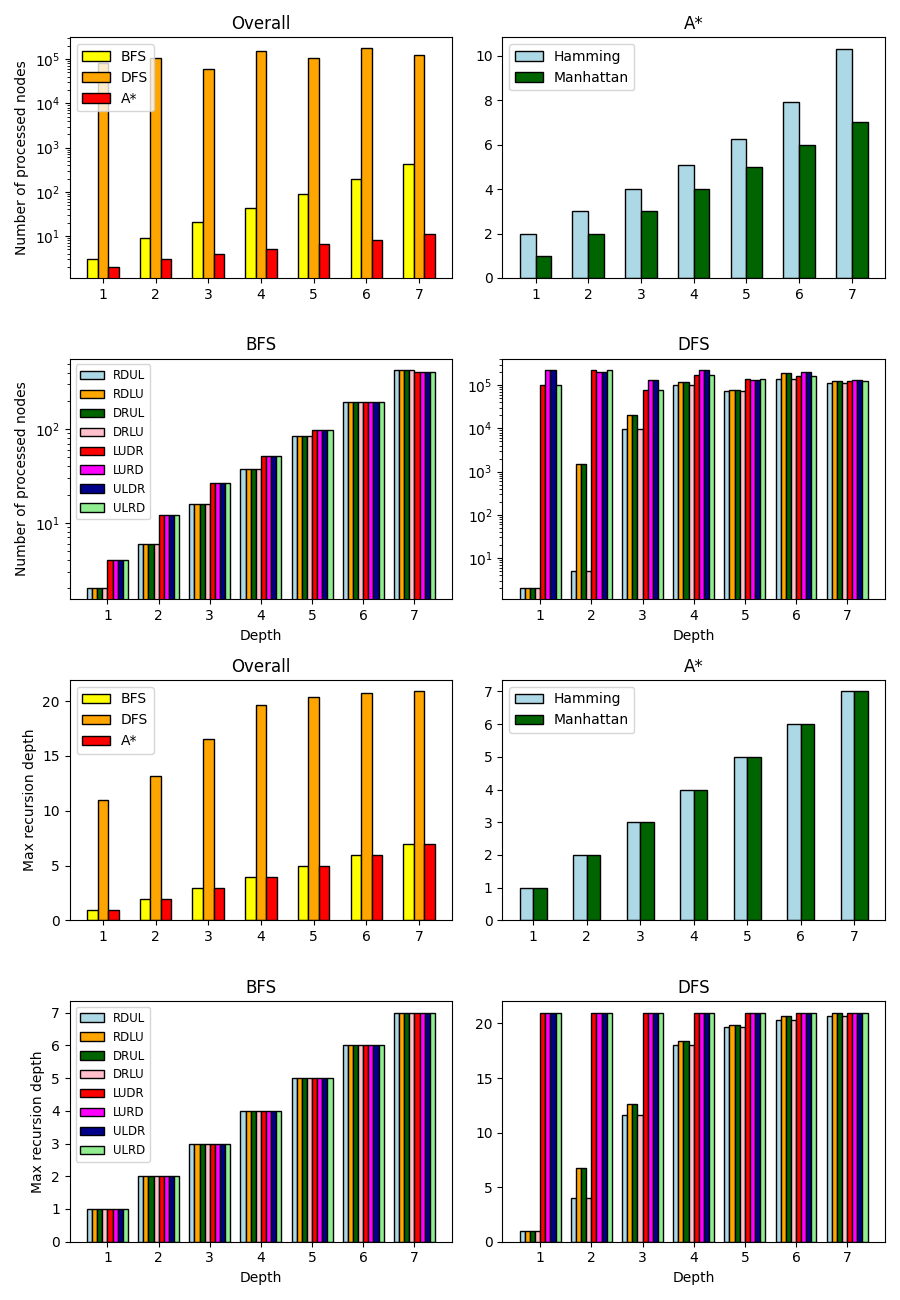
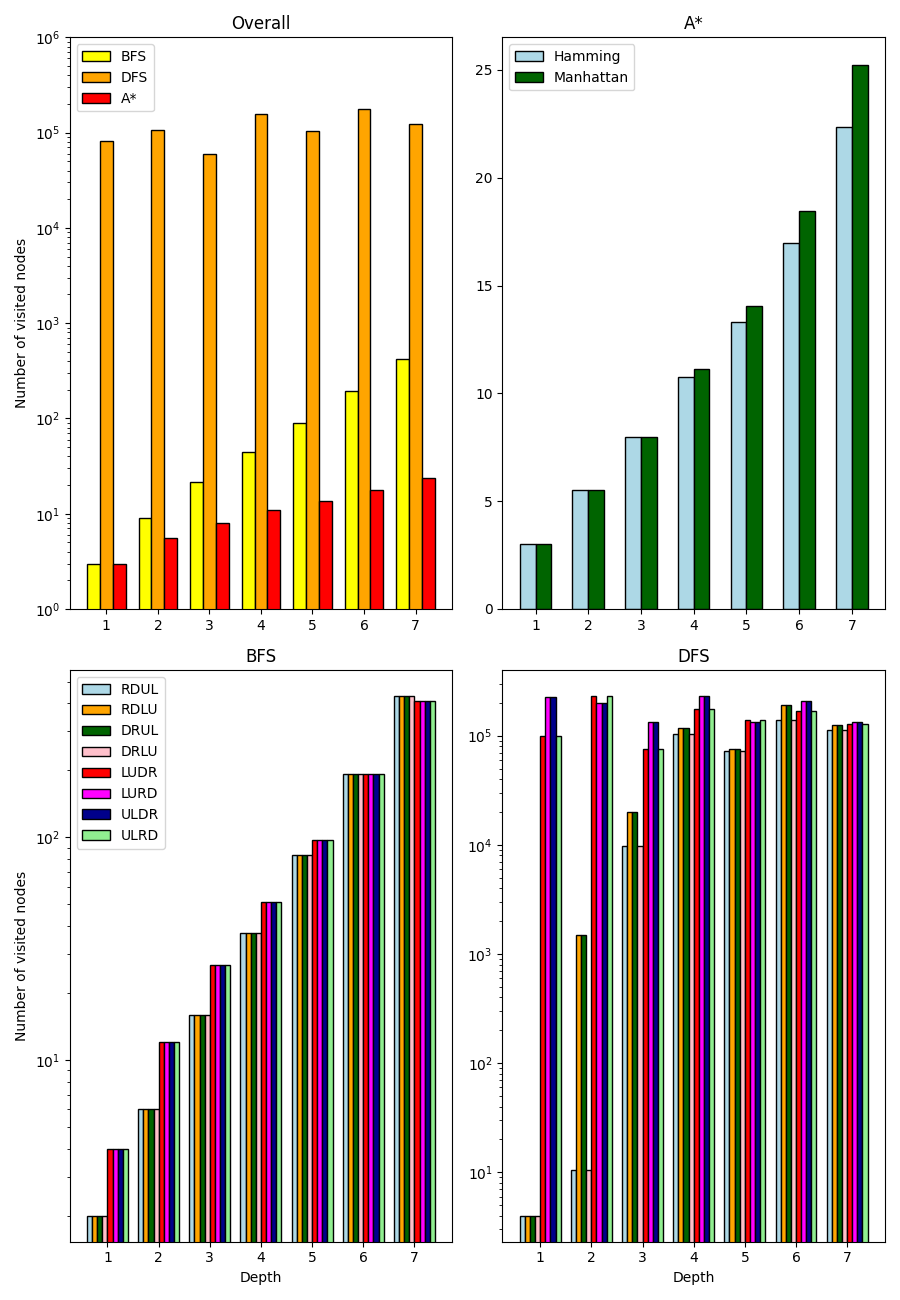
final final

diff --git a/pyton wykresy/main.py b/pyton wykresy/main.py
@@ -39,7 +39,7 @@ def stats(name, *strategy):
 
 names = ['1', '2', '3', '4', '5', '6', '7']
 plt.rcParams["figure.figsize"] = [9, 13]
-fig, ax = plt.subplots(4, 2, tight_layout=True)
+fig, ax = plt.subplots(2, 2, tight_layout=True)
 names_axis = np.arange(len(names))
 
 width = 0.3
@@ -49,14 +49,14 @@ ax[0, 0].bar(names_axis + width, stats('astr')[0], width, color='red', edgecolor
 ax[0, 0].set_ylabel("Avg solution length")
 ax[0, 0].set_xticks(names_axis, names)
 ax[0, 0].set_title("Overall")
-ax[0, 0].legend(["BFS", "DFS", "A*"])
+ax[0, 0].legend(["BFS", "DFS", "A*"], loc="upper left")
 
 ax[0, 1].bar(names_axis - 0.5 * width, stats('astr', 'hamm')[0], width, color='lightblue', edgecolor='black')
 ax[0, 1].bar(names_axis + 0.5 * width, stats('astr', 'manh')[0], width, color='darkgreen' , edgecolor='black')
 ax[0, 1].set_title("A*")
 ax[0, 1].set_xticks(names_axis, names)
 ax[0, 1].set_yticks([1, 2, 3, 4, 5, 6, 7])
-ax[0, 1].legend(["BFS", "DFS", "A*"])
+ax[0, 1].legend(["BFS", "DFS", "A*"], loc="upper left")
 
 width = 0.10
 ax[1, 0].bar(names_axis - 3.5 * width, stats('bfs', 'rdul')[0], width, color='lightblue', edgecolor='black')
@@ -70,7 +70,7 @@ ax[1, 0].bar(names_axis + 3.5 * width, stats('bfs', 'ulrd')[0], width, color='li
 ax[1, 0].set_ylabel("Avg solution length")
 ax[1, 0].set_xticks(names_axis, names)
 ax[1, 0].set_title("BFS")
-ax[1, 0].legend(['RDUL', 'RDLU', 'DRUL', 'DRLU', 'LUDR', 'LURD', 'ULDR', 'ULRD'])
+ax[1, 0].legend(['RDUL', 'RDLU', 'DRUL', 'DRLU', 'LUDR', 'LURD', 'ULDR', 'ULRD'], loc="upper left")
 ax[1, 0].set_xlabel("Depth")
 
 ax[1, 1].bar(names_axis - 3.5 * width, stats('dfs', 'rdul')[0], width, color='lightblue', edgecolor='black')
@@ -84,157 +84,169 @@ ax[1, 1].bar(names_axis + 3.5 * width, stats('dfs', 'ulrd')[0], width, color='li
 ax[1, 1].set_xticks(names_axis, names)
 ax[1, 1].set_title("DFS")
 ax[1, 1].set_xlabel("Depth")
-
-width = 0.3
-ax[2, 0].bar(names_axis - 0.25, stats('bfs')[1], 0.25, color='yellow', log=True, edgecolor='black')
-ax[2, 0].bar(names_axis, stats('dfs')[1], 0.25, color='orange', log=True, edgecolor='black')
-ax[2, 0].bar(names_axis + 0.25, stats('astr')[1], 0.25, color='red', log=True, edgecolor='black')
-ax[2, 0].set_ylabel("Number of visited nodes")
-ax[2, 0].set_xticks(names_axis, names)
-ax[2, 0].set_title("Overall")
-ax[2, 0].legend(['BFS', 'DFS', 'A*'], loc="upper left")
-ax[2, 0].set_yticks([1, 10, 100, 1000, 10000, 100000, 1000000])
-
-ax[2, 1].bar(names_axis - 0.5 * width, stats('astr', 'hamm')[1], width, color='lightblue', edgecolor='black')
-ax[2, 1].bar(names_axis + 0.5 * width, stats('astr', 'manh')[1], width, color='darkgreen', edgecolor='black')
-ax[2, 1].set_title("A*")
-ax[2, 1].set_xticks(names_axis, names)
-ax[2, 1].legend(['Hamming', 'Manhattan'])
-ax[2, 1].set_yticks([0, 5, 10, 15, 20, 25])
-
-width = 0.1
-ax[3, 0].bar(names_axis - 3.5 * width, stats('bfs', 'rdul')[1], 0.1, color='lightblue', log=True, edgecolor='black')
-ax[3, 0].bar(names_axis - 2.5 * width, stats('bfs', 'rdlu')[1], 0.1, color='orange', log=True, edgecolor='black')
-ax[3, 0].bar(names_axis - 1.5 * width, stats('bfs', 'drul')[1], 0.1, color='darkgreen', log=True, edgecolor='black')
-ax[3, 0].bar(names_axis - 0.5 * width, stats('bfs', 'drlu')[1], 0.1, color='pink', log=True, edgecolor='black')
-ax[3, 0].bar(names_axis + 0.5 * width, stats('bfs', 'ludr')[1], 0.1, color='red', log=True, edgecolor='black')
-ax[3, 0].bar(names_axis + 1.5 * width, stats('bfs', 'lurd')[1], 0.1, color='magenta', log=True, edgecolor='black')
-ax[3, 0].bar(names_axis + 2.5 * width, stats('bfs', 'uldr')[1], 0.1, color='darkblue', log=True, edgecolor='black')
-ax[3, 0].bar(names_axis + 3.5 * width, stats('bfs', 'ulrd')[1], 0.1, color='lightgreen', log=True, edgecolor='black')
-ax[3, 0].set_ylabel("Number of visited nodes")
-ax[3, 0].set_xticks(names_axis, names)
-# ax[3, 0].set_yticks([1, 10, 100, 1000])
-ax[3, 0].set_title("BFS")
-ax[3, 0].legend(['RDUL', 'RDLU', 'DRUL', 'DRLU', 'LUDR', 'LURD', 'ULDR', 'ULRD'], prop={'size': 8.5})
-ax[3, 0].set_xlabel("Depth")
-
-ax[3, 1].bar(names_axis - 3.5 * width, stats('dfs', 'rdul')[1], 0.1, color='lightblue', log=True, edgecolor='black')
-ax[3, 1].bar(names_axis - 2.5 * width, stats('dfs', 'rdlu')[1], 0.1, color='orange', log=True, edgecolor='black')
-ax[3, 1].bar(names_axis - 1.5 * width, stats('dfs', 'drul')[1], 0.1, color='darkgreen', log=True, edgecolor='black')
-ax[3, 1].bar(names_axis - 0.5 * width, stats('dfs', 'drlu')[1], 0.1, color='pink', log=True, edgecolor='black')
-ax[3, 1].bar(names_axis + 0.5 * width, stats('dfs', 'ludr')[1], 0.12, color='red', log=True, edgecolor='black')
-ax[3, 1].bar(names_axis + 1.5 * width, stats('dfs', 'lurd')[1], 0.1, color='magenta', log=True, edgecolor='black')
-ax[3, 1].bar(names_axis + 2.5 * width, stats('dfs', 'uldr')[1], 0.1, color='darkblue', log=True, edgecolor='black')
-ax[3, 1].bar(names_axis + 3.5 * width, stats('dfs', 'ulrd')[1], 0.1, color='lightgreen', log=True, edgecolor='black')
-ax[3, 1].set_xticks(names_axis, names)
-# ax[3, 1].set_yticks([1, 10, 100, 1000, 10000, 100000, 1000000])
-ax[3, 1].set_title("DFS")
-ax[3, 1].set_xlabel("Depth")
-
 plt.savefig('wykresy.png')
 plt.clf()
-fig1, ax1 = plt.subplots(4, 2, tight_layout=True)
 
-ax1[0, 0].bar(names_axis - 0.2, stats('bfs')[2], 0.2, color='yellow', log=True, edgecolor='black')
-ax1[0, 0].bar(names_axis, stats('dfs')[2], 0.2, color='orange', log=True, edgecolor='black')
-ax1[0, 0].bar(names_axis + 0.2, stats('astr')[2], 0.2, color='red', log=True, edgecolor='black')
-ax1[0, 0].set_ylabel("Number of processed nodes")
-ax1[0, 0].set_xticks(names_axis, names)
-ax1[0, 0].set_title("Overall")
-ax1[0, 0].legend(['BFS', 'DFS', 'A*'], loc="upper left")
-# ax1[0, 0].set_yticks([1, 10, 100, 1000, 10000, 100000, 1000000])
+
+fig, ax = plt.subplots(2, 2, tight_layout=True)
 width = 0.3
-ax1[0, 1].bar(names_axis - 0.5*width, stats('astr', 'hamm')[2], width, color='lightblue', edgecolor='black')
-ax1[0, 1].bar(names_axis+ 0.5*width, stats('astr', 'manh')[0], width, color='darkgreen', edgecolor='black')
-ax1[0, 1].set_title("A*")
-ax1[0, 1].set_xticks(names_axis, names)
-ax1[0, 1].legend(['Hamming', 'Manhattan'])
-ax1[0, 1].set_yticks([0, 2, 4, 6, 8, 10])
+ax[0, 0].bar(names_axis - 0.25, stats('bfs')[1], 0.25, color='yellow', log=True, edgecolor='black')
+ax[0, 0].bar(names_axis, stats('dfs')[1], 0.25, color='orange', log=True, edgecolor='black')
+ax[0, 0].bar(names_axis + 0.25, stats('astr')[1], 0.25, color='red', log=True, edgecolor='black')
+ax[0, 0].set_ylabel("Number of visited nodes")
+ax[0, 0].set_xticks(names_axis, names)
+ax[0, 0].set_title("Overall")
+ax[0, 0].legend(['BFS', 'DFS', 'A*'], loc="upper left")
+ax[0, 0].set_yticks([1, 10, 100, 1000, 10000, 100000, 1000000])
+
+ax[0, 1].bar(names_axis - 0.5 * width, stats('astr', 'hamm')[1], width, color='lightblue', edgecolor='black')
+ax[0, 1].bar(names_axis + 0.5 * width, stats('astr', 'manh')[1], width, color='darkgreen', edgecolor='black')
+ax[0, 1].set_title("A*")
+ax[0, 1].set_xticks(names_axis, names)
+ax[0, 1].legend(['Hamming', 'Manhattan'], loc="upper left")
+ax[0, 1].set_yticks([0, 5, 10, 15, 20, 25])
 
 width = 0.1
-ax1[1, 0].bar(names_axis - 3.5 * width, stats('bfs', 'rdul')[2], width, color='lightblue', log=True, edgecolor='black')
-ax1[1, 0].bar(names_axis - 2.5 * width, stats('bfs', 'rdlu')[2], width, color='orange', log=True, edgecolor='black')
-ax1[1, 0].bar(names_axis - 1.5 * width, stats('bfs', 'drul')[2], width, color='darkgreen', log=True, edgecolor='black')
-ax1[1, 0].bar(names_axis - 0.5 * width, stats('bfs', 'drlu')[2], width, color='pink', log=True, edgecolor='black')
-ax1[1, 0].bar(names_axis + 0.5 * width, stats('bfs', 'ludr')[2], width,      color='red', log=True, edgecolor='black')
-ax1[1, 0].bar(names_axis + 1.5 * width, stats('bfs', 'lurd')[2], width, color='magenta', log=True, edgecolor='black')
-ax1[1, 0].bar(names_axis + 2.5 * width, stats('bfs', 'uldr')[2], width, color='darkblue', log=True, edgecolor='black')
-ax1[1, 0].bar(names_axis + 3.5 * width, stats('bfs', 'ulrd')[2], width, color='lightgreen', log=True, edgecolor='black')
-ax1[1, 0].set_ylabel("Number of processed nodes")
-ax1[1, 0].set_xticks(names_axis, names)
-# ax1[1, 0].set_yticks([1, 10, 100, 1000])
-ax1[1, 0].set_title("BFS")
-ax1[1, 0].legend(['RDUL', 'RDLU', 'DRUL', 'DRLU', 'LUDR', 'LURD', 'ULDR', 'ULRD'], prop={'size': 8.5})
-ax1[1, 0].set_xlabel("Depth")
+ax[1, 0].bar(names_axis - 3.5 * width, stats('bfs', 'rdul')[1], width, color='lightblue', log=True, edgecolor='black')
+ax[1, 0].bar(names_axis - 2.5 * width, stats('bfs', 'rdlu')[1], width, color='orange', log=True, edgecolor='black')
+ax[1, 0].bar(names_axis - 1.5 * width, stats('bfs', 'drul')[1], width, color='darkgreen', log=True, edgecolor='black')
+ax[1, 0].bar(names_axis - 0.5 * width, stats('bfs', 'drlu')[1], width, color='pink', log=True, edgecolor='black')
+ax[1, 0].bar(names_axis + 0.5 * width, stats('bfs', 'ludr')[1], width, color='red', log=True, edgecolor='black')
+ax[1, 0].bar(names_axis + 1.5 * width, stats('bfs', 'lurd')[1], width, color='magenta', log=True, edgecolor='black')
+ax[1, 0].bar(names_axis + 2.5 * width, stats('bfs', 'uldr')[1], width, color='darkblue', log=True, edgecolor='black')
+ax[1, 0].bar(names_axis + 3.5 * width, stats('bfs', 'ulrd')[1], width, color='lightgreen', log=True, edgecolor='black')
+ax[1, 0].set_ylabel("Number of visited nodes")
+ax[1, 0].set_xticks(names_axis, names)
+# ax[1, 0].set_yticks([1, 10, 100, 1000])
+ax[1, 0].set_title("BFS")
+ax[1, 0].legend(['RDUL', 'RDLU', 'DRUL', 'DRLU', 'LUDR', 'LURD', 'ULDR', 'ULRD'], loc="upper left")
+ax[1, 0].set_xlabel("Depth")
 
-ax1[1, 1].bar(names_axis - 3.5 * width, stats('dfs', 'rdul')[2], width, color='lightblue', log=True, edgecolor='black')
-ax1[1, 1].bar(names_axis - 2.5 * width, stats('dfs', 'rdlu')[2], width, color='orange',  log=True, edgecolor='black')
-ax1[1, 1].bar(names_axis - 1.5 * width, stats('dfs', 'drul')[2], width, color='darkgreen', log=True, edgecolor='black')
-ax1[1, 1].bar(names_axis - 0.5 * width, stats('dfs', 'drlu')[2], width, color='pink', log=True, edgecolor='black')
-ax1[1, 1].bar(names_axis + 0.5 * width, stats('dfs', 'ludr')[2], width,       color='red', log=True, edgecolor='black')
-ax1[1, 1].bar(names_axis + 1.5 * width, stats('dfs', 'lurd')[2], width, color='magenta',  log=True, edgecolor='black')
-ax1[1, 1].bar(names_axis + 2.5 * width, stats('dfs', 'uldr')[2], width, color='darkblue',  log=True, edgecolor='black')
-ax1[1, 1].bar(names_axis + 3.5 * width, stats('dfs', 'ulrd')[2], width, color='lightgreen' ,log=True, edgecolor='black')
-ax1[1, 1].set_xticks(names_axis, names)
-ax1[1, 1].set_title("DFS")
-ax1[1, 1].set_xlabel("Depth")
-# ax1[1, 1].set_yticks([1, 10, 100, 1000, 10000, 100000, 1000000])
+ax[1, 1].bar(names_axis - 3.5 * width, stats('dfs', 'rdul')[1], width, color='lightblue', log=True, edgecolor='black')
+ax[1, 1].bar(names_axis - 2.5 * width, stats('dfs', 'rdlu')[1], width, color='orange', log=True, edgecolor='black')
+ax[1, 1].bar(names_axis - 1.5 * width, stats('dfs', 'drul')[1], width, color='darkgreen', log=True, edgecolor='black')
+ax[1, 1].bar(names_axis - 0.5 * width, stats('dfs', 'drlu')[1], width, color='pink', log=True, edgecolor='black')
+ax[1, 1].bar(names_axis + 0.5 * width, stats('dfs', 'ludr')[1], width, color='red', log=True, edgecolor='black')
+ax[1, 1].bar(names_axis + 1.5 * width, stats('dfs', 'lurd')[1], width, color='magenta', log=True, edgecolor='black')
+ax[1, 1].bar(names_axis + 2.5 * width, stats('dfs', 'uldr')[1], width, color='darkblue', log=True, edgecolor='black')
+ax[1, 1].bar(names_axis + 3.5 * width, stats('dfs', 'ulrd')[1], width, color='lightgreen', log=True, edgecolor='black')
+ax[1, 1].set_xticks(names_axis, names)
+# ax[1, 1].set_yticks([1, 10, 100, 1000, 10000, 100000, 1000000])
+ax[1, 1].set_title("DFS")
+ax[1, 1].set_xlabel("Depth")
 
-ax1[2, 0].bar(names_axis - 0.2, stats('bfs')[3], 0.2, color='yellow', edgecolor='black')
-ax1[2, 0].bar(names_axis, stats('dfs')[3], 0.2, color='orange', edgecolor='black')
-ax1[2, 0].bar(names_axis + 0.2, stats('astr')[3], 0.2, color='red', edgecolor='black')
-ax1[2, 0].set_ylabel("Max recursion depth")
-ax1[2, 0].set_xticks(names_axis, names)
-ax1[2, 0].set_title("Overall")
-ax1[2, 0].legend(['BFS', 'DFS', 'A*'])
-ax1[2, 0].set_yticks([0, 5, 10, 15, 20])
-
-width = 0.25
-ax1[2, 1].bar(names_axis - 0.5*width, stats('astr', 'hamm')[3], width, color='lightblue', edgecolor='black')
-ax1[2, 1].bar(names_axis + 0.5*width, stats('astr', 'manh')[3], width, color='darkgreen', edgecolor='black')
-ax1[2, 1].set_title("A*")
-ax1[2, 1].set_xticks(names_axis, names)
-ax1[2, 1].legend(['Hamming', 'Manhattan'])
-
-width = 0.1
-ax1[3, 0].bar(names_axis - 3.5 * width, stats('bfs', 'rdul')[3], width, color='lightblue',  edgecolor='black')
-ax1[3, 0].bar(names_axis - 2.5 * width, stats('bfs', 'rdlu')[3], width, color='orange', edgecolor='black')
-ax1[3, 0].bar(names_axis - 1.5 * width, stats('bfs', 'drul')[3], width, color='darkgreen', edgecolor='black')
-ax1[3, 0].bar(names_axis - 0.5 * width, stats('bfs', 'drlu')[3], width, color='pink', edgecolor='black')
-ax1[3, 0].bar(names_axis + 0.5 * width, stats('bfs', 'ludr')[3], width,      color='red',  edgecolor='black')
-ax1[3, 0].bar(names_axis + 1.5 * width, stats('bfs', 'lurd')[3], width, color='magenta' , edgecolor='black')
-ax1[3, 0].bar(names_axis + 2.5 * width, stats('bfs', 'uldr')[3], width, color='darkblue',  edgecolor='black')
-ax1[3, 0].bar(names_axis + 3.5 * width, stats('bfs', 'ulrd')[3], width, color='lightgreen', edgecolor='black')
-ax1[3, 0].set_ylabel("Max recursion depth")
-ax1[3, 0].set_xticks(names_axis, names)
-ax1[3, 0].set_title("BFS")
-ax1[3, 0].legend(['RDUL', 'RDLU', 'DRUL', 'DRLU', 'LUDR', 'LURD', 'ULDR', 'ULRD'], prop={'size': 8.5})
-ax1[3, 0].set_xlabel("Depth")
-
-ax1[3, 1].bar(names_axis - 3.5 * width, stats('dfs', 'rdul')[3], width, color='lightblue', edgecolor='black')
-ax1[3, 1].bar(names_axis - 2.5 * width, stats('dfs', 'rdlu')[3], width, color='orange',  edgecolor='black')
-ax1[3, 1].bar(names_axis - 1.5 * width, stats('dfs', 'drul')[3], width, color='darkgreen',  edgecolor='black')
-ax1[3, 1].bar(names_axis - 0.5 * width, stats('dfs', 'drlu')[3], width, color='pink', edgecolor='black')
-ax1[3, 1].bar(names_axis + 0.5 * width, stats('dfs', 'ludr')[3], width,       color='red', edgecolor='black')
-ax1[3, 1].bar(names_axis + 1.5 * width, stats('dfs', 'lurd')[3], width, color='magenta' ,  edgecolor='black')
-ax1[3, 1].bar(names_axis + 2.5 * width, stats('dfs', 'uldr')[3], width, color='darkblue',  edgecolor='black')
-ax1[3, 1].bar(names_axis + 3.5 * width, stats('dfs', 'ulrd')[3], width, color='lightgreen',edgecolor='black')
-ax1[3, 1].set_xticks(names_axis, names)
-ax1[3, 1].set_title("DFS")
-ax1[3, 1].set_xlabel("Depth")
 plt.savefig('wykresy1.png')
 plt.clf()
 
-plt.rcParams["figure.figsize"] = [9, 6.5]
+
+fig, ax = plt.subplots(2, 2, tight_layout=True)
+
+ax[0, 0].bar(names_axis - 0.2, stats('bfs')[2], 0.2, color='yellow', log=True, edgecolor='black')
+ax[0, 0].bar(names_axis, stats('dfs')[2], 0.2, color='orange', log=True, edgecolor='black')
+ax[0, 0].bar(names_axis + 0.2, stats('astr')[2], 0.2, color='red', log=True, edgecolor='black')
+ax[0, 0].set_ylabel("Number of processed nodes")
+ax[0, 0].set_xticks(names_axis, names)
+ax[0, 0].set_title("Overall")
+ax[0, 0].legend(['BFS', 'DFS', 'A*'], loc="upper left")
+# ax[0, 0].set_yticks([1, 10, 100, 1000, 10000, 100000, 1000000])
+width = 0.3
+ax[0, 1].bar(names_axis - 0.5*width, stats('astr', 'hamm')[2], width, color='lightblue', edgecolor='black')
+ax[0, 1].bar(names_axis+ 0.5*width, stats('astr', 'manh')[0], width, color='darkgreen', edgecolor='black')
+ax[0, 1].set_title("A*")
+ax[0, 1].set_xticks(names_axis, names)
+ax[0, 1].legend(['Hamming', 'Manhattan'], loc="upper left")
+ax[0, 1].set_yticks([0, 2, 4, 6, 8, 10])
+
+width = 0.1
+ax[1, 0].bar(names_axis - 3.5 * width, stats('bfs', 'rdul')[2], width, color='lightblue', log=True, edgecolor='black')
+ax[1, 0].bar(names_axis - 2.5 * width, stats('bfs', 'rdlu')[2], width, color='orange', log=True, edgecolor='black')
+ax[1, 0].bar(names_axis - 1.5 * width, stats('bfs', 'drul')[2], width, color='darkgreen', log=True, edgecolor='black')
+ax[1, 0].bar(names_axis - 0.5 * width, stats('bfs', 'drlu')[2], width, color='pink', log=True, edgecolor='black')
+ax[1, 0].bar(names_axis + 0.5 * width, stats('bfs', 'ludr')[2], width,      color='red', log=True, edgecolor='black')
+ax[1, 0].bar(names_axis + 1.5 * width, stats('bfs', 'lurd')[2], width, color='magenta', log=True, edgecolor='black')
+ax[1, 0].bar(names_axis + 2.5 * width, stats('bfs', 'uldr')[2], width, color='darkblue', log=True, edgecolor='black')
+ax[1, 0].bar(names_axis + 3.5 * width, stats('bfs', 'ulrd')[2], width, color='lightgreen', log=True, edgecolor='black')
+ax[1, 0].set_ylabel("Number of processed nodes")
+ax[1, 0].set_xticks(names_axis, names)
+# ax[1, 0].set_yticks([1, 10, 100, 1000])
+ax[1, 0].set_title("BFS")
+ax[1, 0].legend(['RDUL', 'RDLU', 'DRUL', 'DRLU', 'LUDR', 'LURD', 'ULDR', 'ULRD'], loc="upper left")
+ax[1, 0].set_xlabel("Depth")
+
+ax[1, 1].bar(names_axis - 3.5 * width, stats('dfs', 'rdul')[2], width, color='lightblue', log=True, edgecolor='black')
+ax[1, 1].bar(names_axis - 2.5 * width, stats('dfs', 'rdlu')[2], width, color='orange',  log=True, edgecolor='black')
+ax[1, 1].bar(names_axis - 1.5 * width, stats('dfs', 'drul')[2], width, color='darkgreen', log=True, edgecolor='black')
+ax[1, 1].bar(names_axis - 0.5 * width, stats('dfs', 'drlu')[2], width, color='pink', log=True, edgecolor='black')
+ax[1, 1].bar(names_axis + 0.5 * width, stats('dfs', 'ludr')[2], width,       color='red', log=True, edgecolor='black')
+ax[1, 1].bar(names_axis + 1.5 * width, stats('dfs', 'lurd')[2], width, color='magenta',  log=True, edgecolor='black')
+ax[1, 1].bar(names_axis + 2.5 * width, stats('dfs', 'uldr')[2], width, color='darkblue',  log=True, edgecolor='black')
+ax[1, 1].bar(names_axis + 3.5 * width, stats('dfs', 'ulrd')[2], width, color='lightgreen' ,log=True, edgecolor='black')
+ax[1, 1].set_xticks(names_axis, names)
+ax[1, 1].set_title("DFS")
+ax[1, 1].set_xlabel("Depth")
+# ax[1, 1].set_yticks([1, 10, 100, 1000, 10000, 100000, 1000000])
+
+plt.savefig('wykresy2.png')
+plt.clf()
+
+
+fig, ax = plt.subplots(2, 2, tight_layout=True)
+
+ax[0, 0].bar(names_axis - 0.2, stats('bfs')[3], 0.2, color='yellow', edgecolor='black')
+ax[0, 0].bar(names_axis, stats('dfs')[3], 0.2, color='orange', edgecolor='black')
+ax[0, 0].bar(names_axis + 0.2, stats('astr')[3], 0.2, color='red', edgecolor='black')
+ax[0, 0].set_ylabel("Max recursion depth")
+ax[0, 0].set_xticks(names_axis, names)
+ax[0, 0].set_title("Overall")
+ax[0, 0].legend(['BFS', 'DFS', 'A*'], loc="upper left")
+ax[0, 0].set_yticks([0, 5, 10, 15, 20])
+
+width = 0.25
+ax[0, 1].bar(names_axis - 0.5*width, stats('astr', 'hamm')[3], width, color='lightblue', edgecolor='black')
+ax[0, 1].bar(names_axis + 0.5*width, stats('astr', 'manh')[3], width, color='darkgreen', edgecolor='black')
+ax[0, 1].set_title("A*")
+ax[0, 1].set_xticks(names_axis, names)
+ax[0, 1].legend(['Hamming', 'Manhattan'], loc="upper left")
+
+width = 0.1
+ax[1, 0].bar(names_axis - 3.5 * width, stats('bfs', 'rdul')[3], width, color='lightblue',  edgecolor='black')
+ax[1, 0].bar(names_axis - 2.5 * width, stats('bfs', 'rdlu')[3], width, color='orange', edgecolor='black')
+ax[1, 0].bar(names_axis - 1.5 * width, stats('bfs', 'drul')[3], width, color='darkgreen', edgecolor='black')
+ax[1, 0].bar(names_axis - 0.5 * width, stats('bfs', 'drlu')[3], width, color='pink', edgecolor='black')
+ax[1, 0].bar(names_axis + 0.5 * width, stats('bfs', 'ludr')[3], width,      color='red',  edgecolor='black')
+ax[1, 0].bar(names_axis + 1.5 * width, stats('bfs', 'lurd')[3], width, color='magenta' , edgecolor='black')
+ax[1, 0].bar(names_axis + 2.5 * width, stats('bfs', 'uldr')[3], width, color='darkblue',  edgecolor='black')
+ax[1, 0].bar(names_axis + 3.5 * width, stats('bfs', 'ulrd')[3], width, color='lightgreen', edgecolor='black')
+ax[1, 0].set_ylabel("Max recursion depth")
+ax[1, 0].set_xticks(names_axis, names)
+ax[1, 0].set_title("BFS")
+ax[1, 0].legend(['RDUL', 'RDLU', 'DRUL', 'DRLU', 'LUDR', 'LURD', 'ULDR', 'ULRD'], loc="upper left")
+ax[1, 0].set_xlabel("Depth")
+
+ax[1, 1].bar(names_axis - 3.5 * width, stats('dfs', 'rdul')[3], width, color='lightblue', edgecolor='black')
+ax[1, 1].bar(names_axis - 2.5 * width, stats('dfs', 'rdlu')[3], width, color='orange',  edgecolor='black')
+ax[1, 1].bar(names_axis - 1.5 * width, stats('dfs', 'drul')[3], width, color='darkgreen',  edgecolor='black')
+ax[1, 1].bar(names_axis - 0.5 * width, stats('dfs', 'drlu')[3], width, color='pink', edgecolor='black')
+ax[1, 1].bar(names_axis + 0.5 * width, stats('dfs', 'ludr')[3], width,       color='red', edgecolor='black')
+ax[1, 1].bar(names_axis + 1.5 * width, stats('dfs', 'lurd')[3], width, color='magenta' ,  edgecolor='black')
+ax[1, 1].bar(names_axis + 2.5 * width, stats('dfs', 'uldr')[3], width, color='darkblue',  edgecolor='black')
+ax[1, 1].bar(names_axis + 3.5 * width, stats('dfs', 'ulrd')[3], width, color='lightgreen',edgecolor='black')
+ax[1, 1].set_xticks(names_axis, names)
+ax[1, 1].set_title("DFS")
+ax[1, 1].set_xlabel("Depth")
+plt.savefig('wykresy3.png')
+plt.clf()
+
+plt.rcParams["figure.figsize"] = [9, 13]
 fig2, ax2 = plt.subplots(2, 2, tight_layout=True)
 ax2[0, 0].bar(names_axis - 0.2, stats('bfs')[4], 0.2, color='yellow', log=True, edgecolor='black')
 ax2[0, 0].bar(names_axis, stats('dfs')[4], 0.2, color='orange', log=True, edgecolor='black')
 ax2[0, 0].bar(names_axis + 0.2, stats('astr')[4], 0.2, color='red', log=True, edgecolor='black')
-ax2[0, 0].set_ylabel("Runtime")
+ax2[0, 0].set_ylabel("Runtime [ms]")
 ax2[0, 0].set_xticks(names_axis, names)
 # ax2[0, 0].set_yticks([0.01, 0.1, 1, 10, 100])
 ax2[0, 0].set_title("Overall")
-ax2[0, 0].legend(['BFS', 'DFS', 'A*'], loc="upper right")
+ax2[0, 0].legend(['BFS', 'DFS', 'A*'], loc="upper left")
 
 width = 0.3
 ax2[0, 1].bar(names_axis - 0.5*width, stats('astr', 'hamm')[4], width, color='lightblue', edgecolor='black')
@@ -242,7 +254,7 @@ ax2[0, 1].bar(names_axis + 0.5*width, stats('astr', 'manh')[4], width, color='da
 ax2[0, 1].set_title("A*")
 ax2[0, 1].set_xticks(names_axis, names)
 # ax2[0, 1].set_yticks([0, 0.02, 0.04, 0.06, 0.08, 0.1])
-ax2[0, 1].legend(['Hamming', 'Manhattan'])
+ax2[0, 1].legend(['Hamming', 'Manhattan'], loc="upper left")
 
 width = 0.1
 ax2[1, 0].bar(names_axis - 3.5 * width, stats('bfs', 'rdul')[4], width, color='lightblue',  edgecolor='black')
@@ -253,10 +265,10 @@ ax2[1, 0].bar(names_axis + 0.5 * width, stats('bfs', 'ludr')[4], width,      col
 ax2[1, 0].bar(names_axis + 1.5 * width, stats('bfs', 'lurd')[4], width, color='magenta' ,  edgecolor='black')
 ax2[1, 0].bar(names_axis + 2.5 * width, stats('bfs', 'uldr')[4], width, color='darkblue',   edgecolor='black')
 ax2[1, 0].bar(names_axis + 3.5 * width, stats('bfs', 'ulrd')[4], width, color='lightgreen', edgecolor='black')
-ax2[1, 0].set_ylabel("Runtime")
+ax2[1, 0].set_ylabel("Runtime [ms]")
 ax2[1, 0].set_xticks(names_axis, names)
 ax2[1, 0].set_title("BFS")
-ax2[1, 0].legend(['RDUL', 'RDLU', 'DRUL', 'DRLU', 'LUDR', 'LURD', 'ULDR', 'ULRD'], prop={'size': 8.5})
+ax2[1, 0].legend(['RDUL', 'RDLU', 'DRUL', 'DRLU', 'LUDR', 'LURD', 'ULDR', 'ULRD'], loc="upper left")
 ax2[1, 0].set_xlabel("Depth")
 # ax2[1, 0].set_yticks([0, 0.05, 0.1, 0.15, 0.2, 0.25])
 
@@ -273,5 +285,5 @@ ax2[1, 1].set_title("DFS")
 ax2[1, 1].set_xlabel("Depth")
 # ax2[1, 1].set_yticks([0.01, 0.1, 1, 10, 100, 1000])
 
-plt.savefig('wykresy2.png')
+plt.savefig('wykresy4.png')
 plt.clf()
